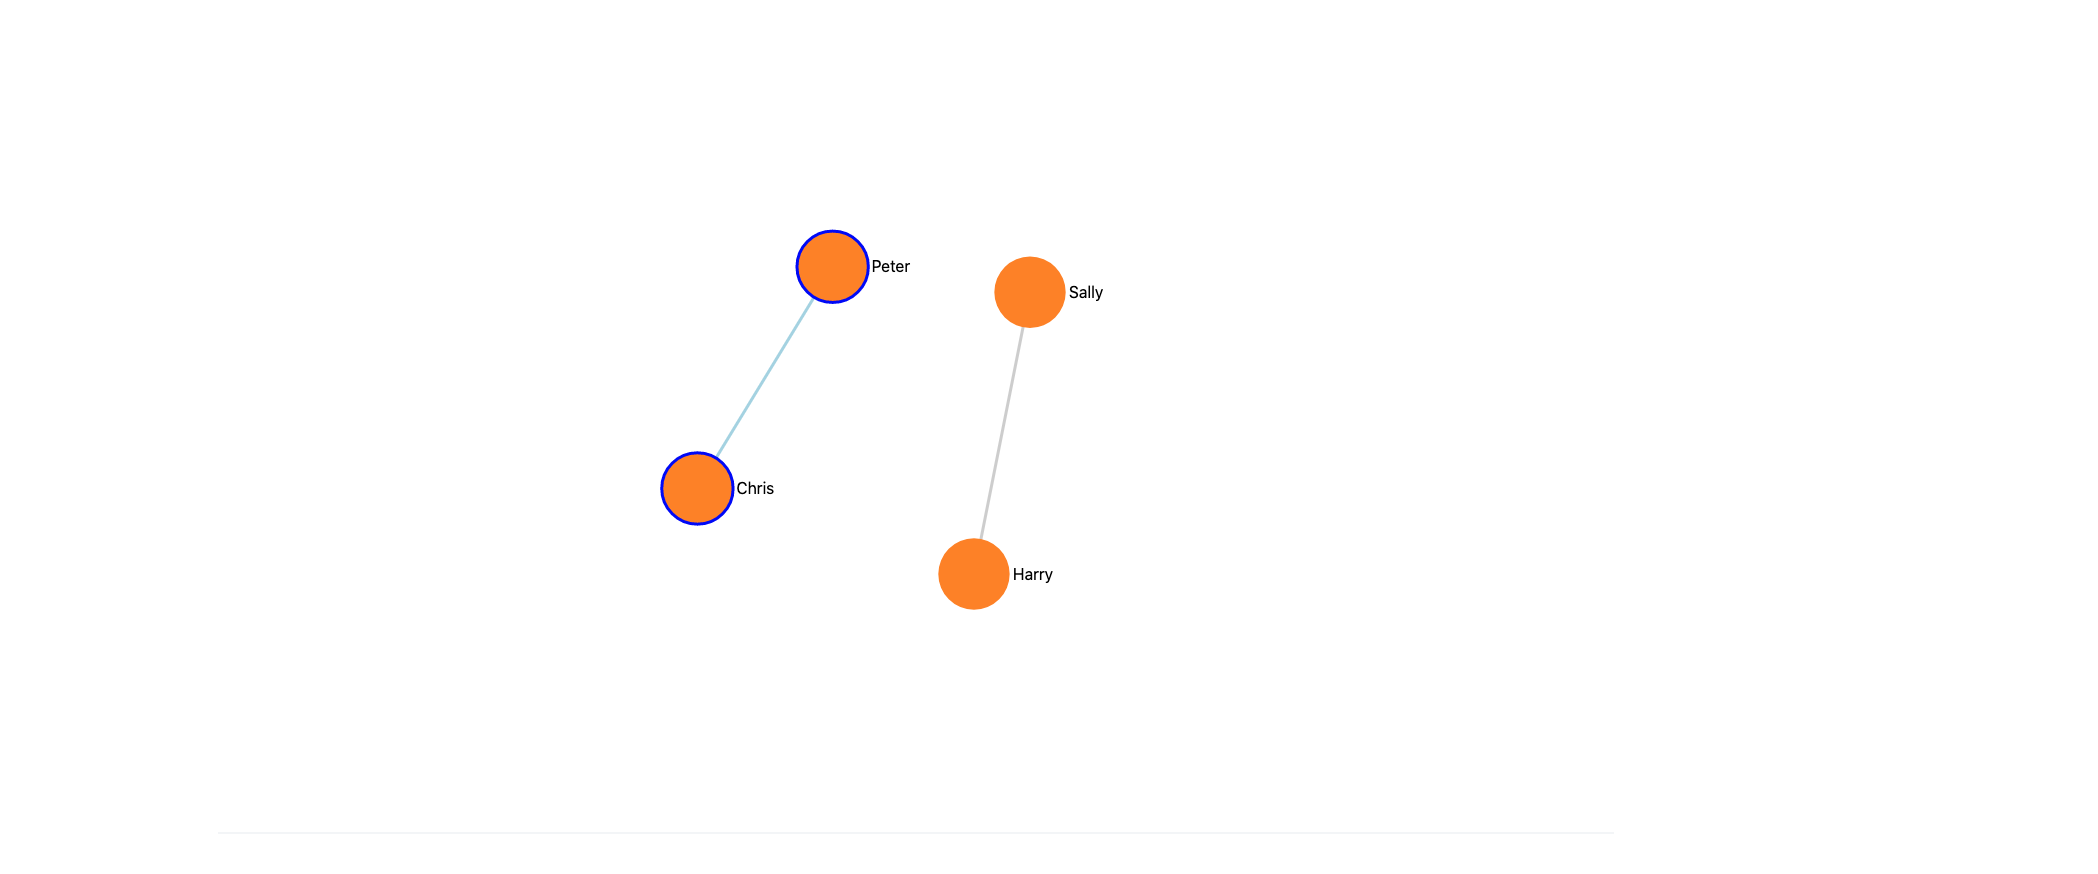
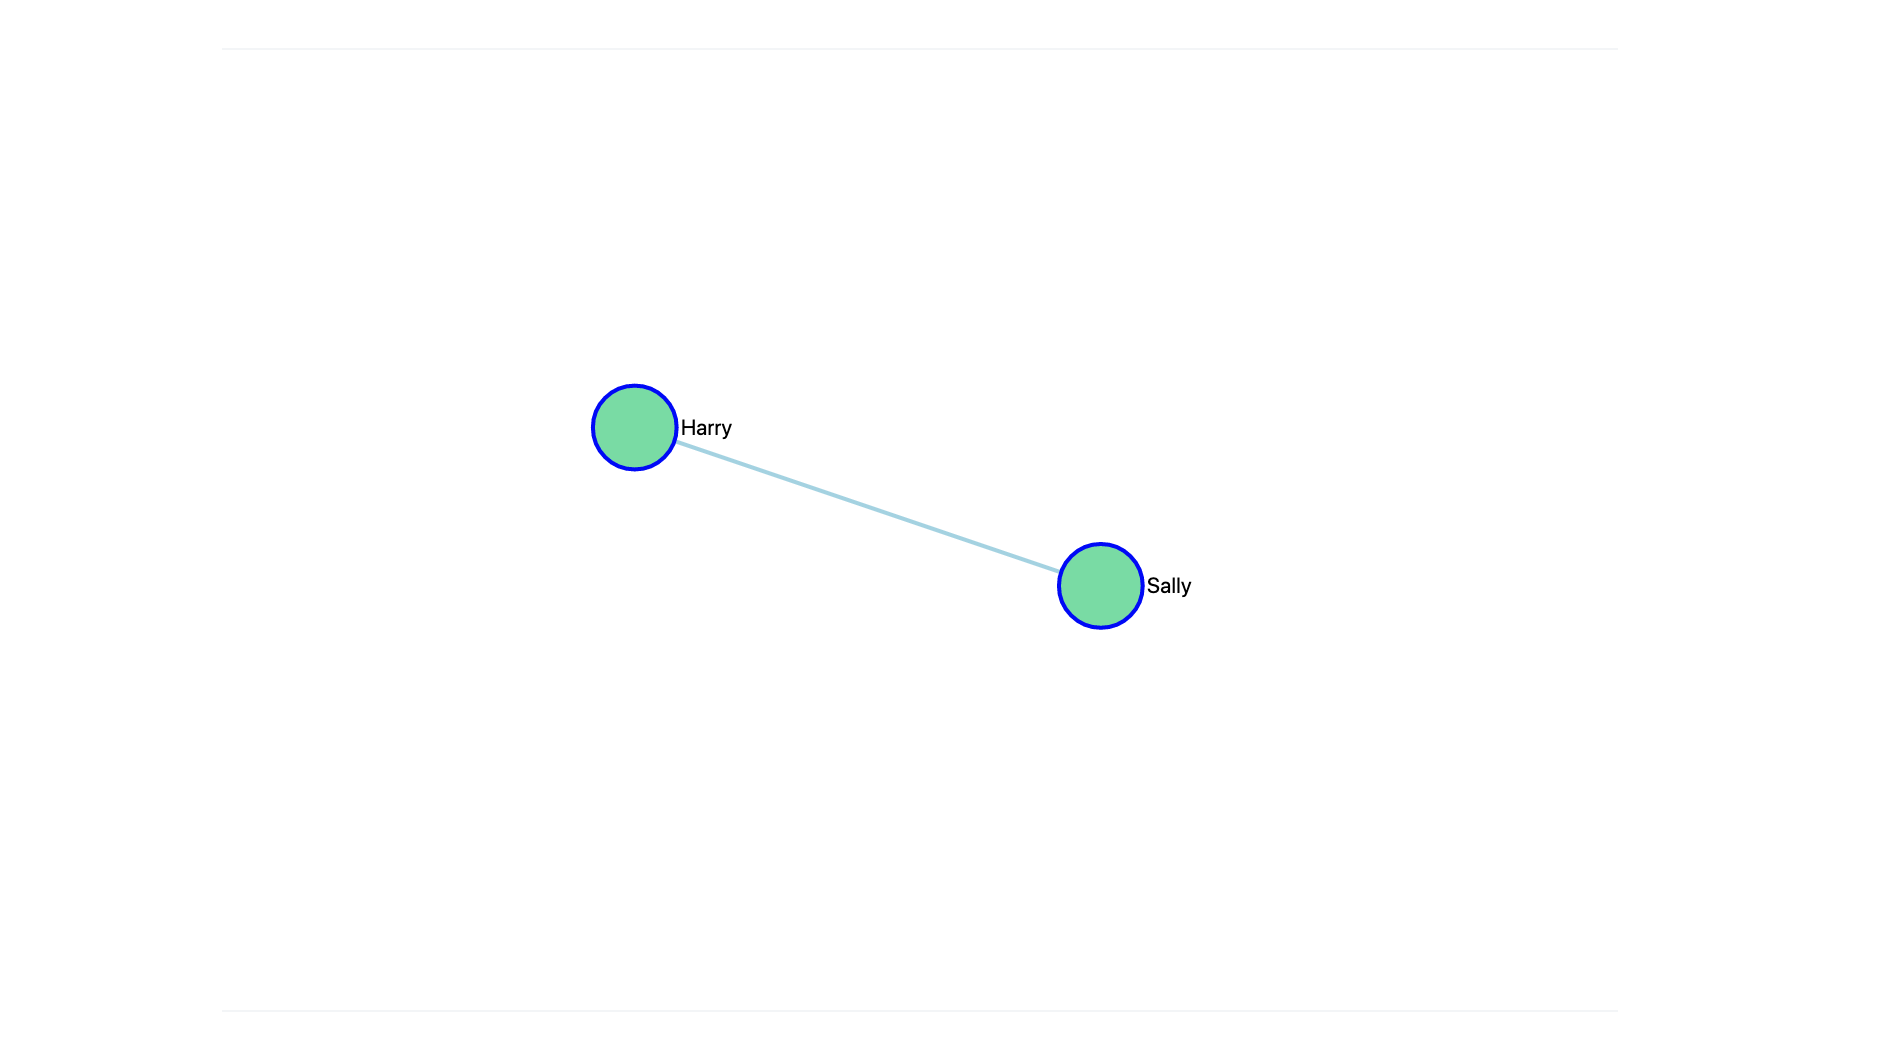
updated versioning

diff --git a/streamlit_agraph/__init__.py b/streamlit_agraph/__init__.py
@@ -43,7 +43,7 @@ if not _RELEASE:
 
     myConfig = { "nodeHighlightBehavior": "true", "node": { "color": "lightgreen", "size": 120, "highlightStrokeColor": "blue",}, "link": { "highlightColor": "lightblue",}, }
 
-    return_value = agraph(nodes=nodes, edges=edges, nodeHighlightBehavior="true", node_color="darkorange", node_size=1000, highlightStrokeColor="blue", highlightColor="lightblue" )
+    return_value = agraph(nodes=nodes, edges=edges, nodeHighlightBehavior="true", node_color="#82E0AA", node_size=750, highlightStrokeColor="blue", highlightColor="lightblue" )
 
     # st.write(return_value)
     # st.markdown("You've clicked %s times!" % int(num_clicks))

diff --git a/setup.py b/setup.py
@@ -8,7 +8,7 @@ with open(path.join(this_directory, 'README.md'), encoding='utf-8') as f:
 
 setuptools.setup(
     name="streamlit-agraph",
-    version="0.0.20",
+    version="0.0.21",
     author="Christian Klose",
     author_email="chris.klose@gmx.net",
     description="Interactive Graph Vis for Streamlit.",
